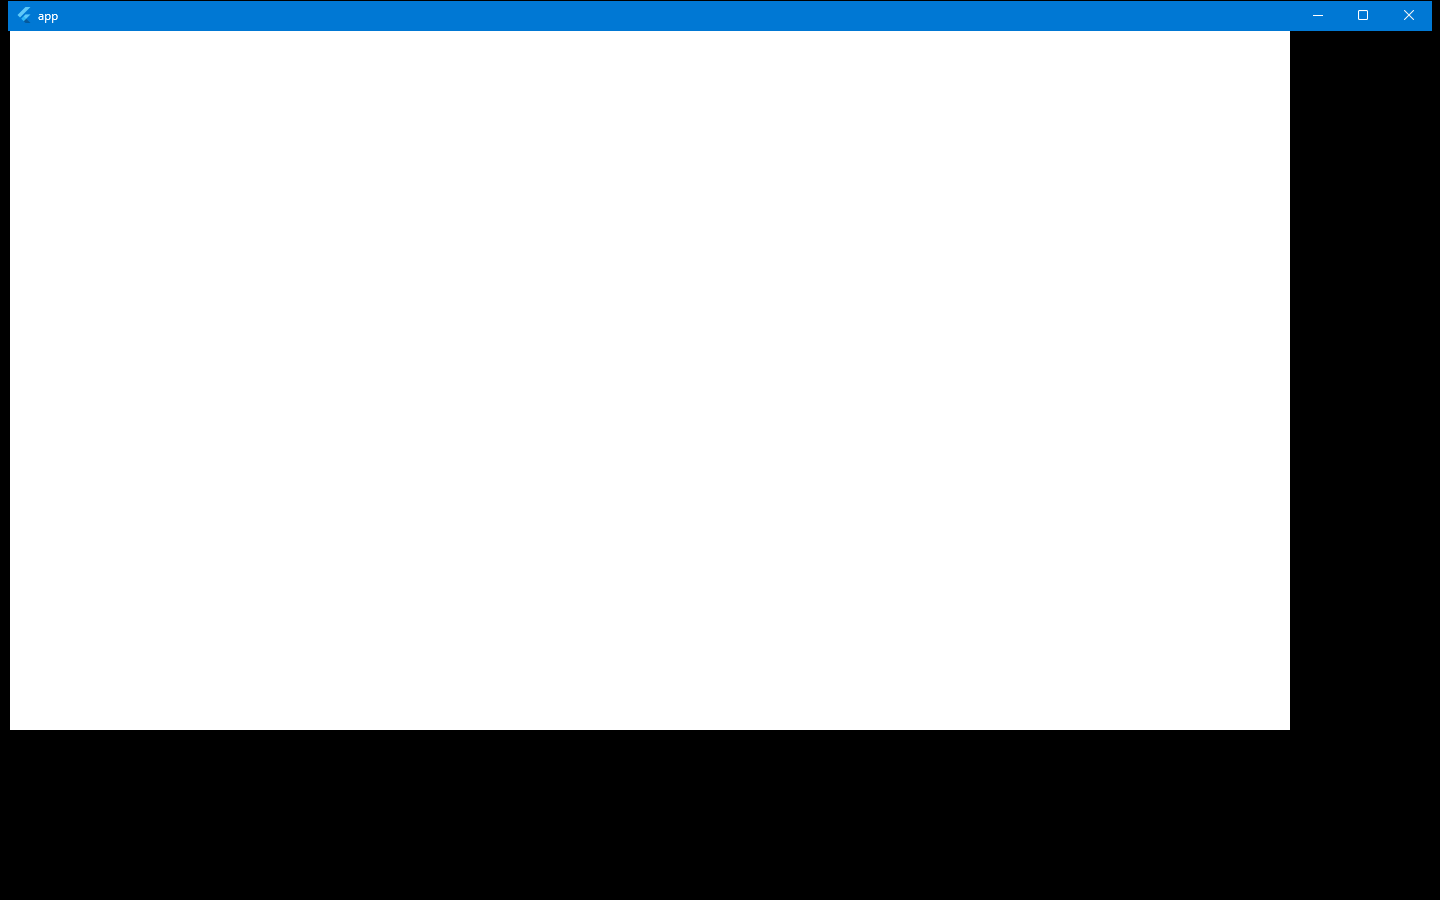
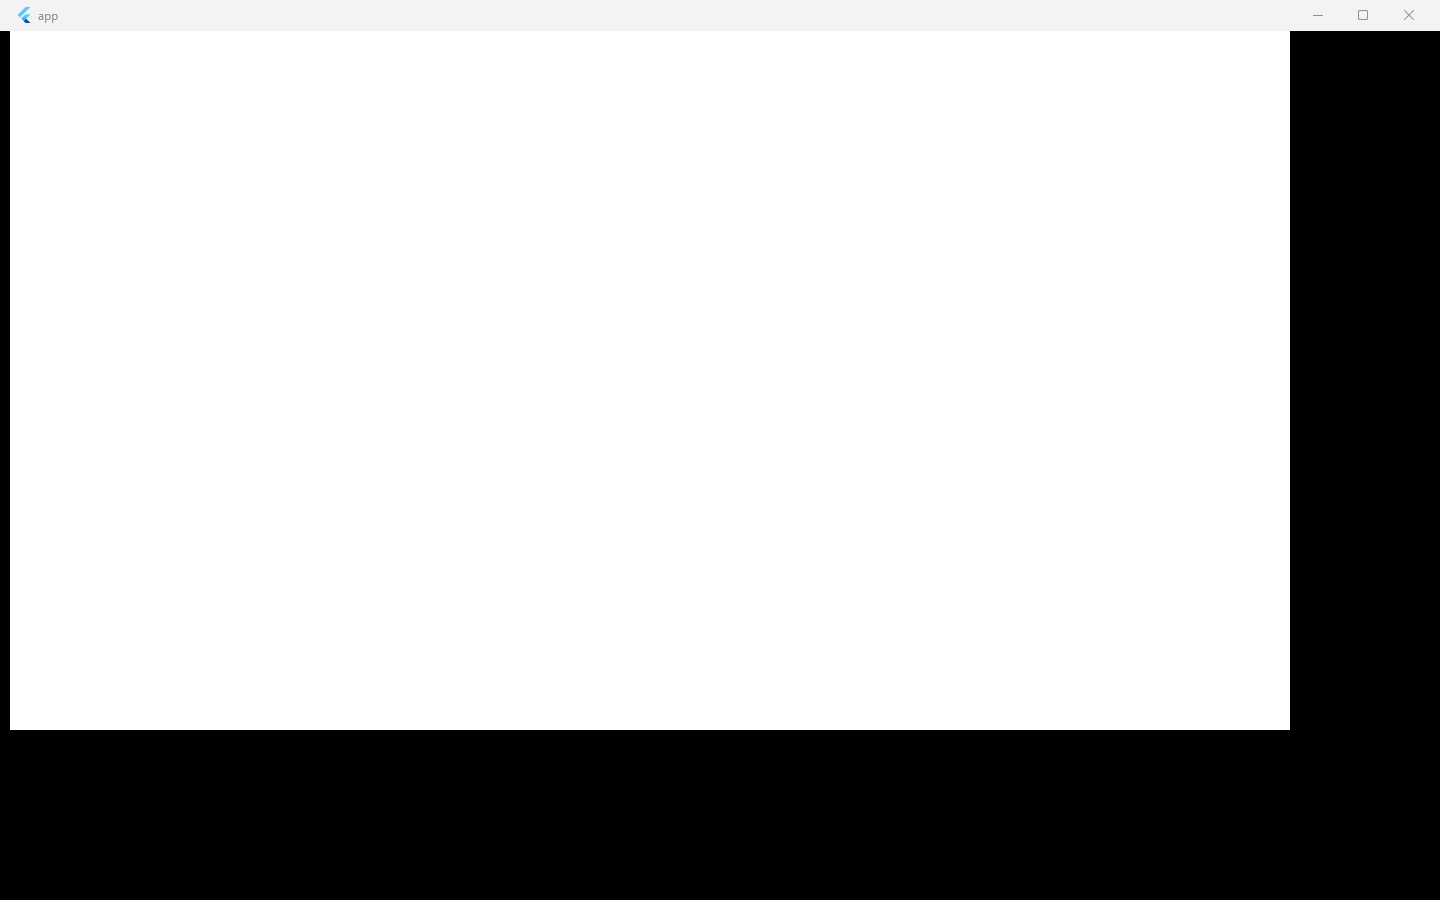
chore(e2e): 更新 Win32 GDI 截图驱动与最新云端产物 E2E 验证证据

Changed region(s): [[0.0, 0.0, 1.0, 0.0622]]

diff --git a/run_pc_physical_e2e.py b/run_pc_physical_e2e.py
@@ -66,14 +66,57 @@ def bring_to_front(hwnd):
     user32.BringWindowToTop(hwnd)
     time.sleep(0.4)
 
+class BITMAPINFOHEADER(ctypes.Structure):
+    _fields_ = [
+        ('biSize', wintypes.DWORD),
+        ('biWidth', wintypes.LONG),
+        ('biHeight', wintypes.LONG),
+        ('biPlanes', wintypes.WORD),
+        ('biBitCount', wintypes.WORD),
+        ('biCompression', wintypes.DWORD),
+        ('biSizeImage', wintypes.DWORD),
+        ('biXPelsPerMeter', wintypes.LONG),
+        ('biYPelsPerMeter', wintypes.LONG),
+        ('biClrUsed', wintypes.DWORD),
+        ('biClrImportant', wintypes.DWORD)
+    ]
+
 def capture_window(hwnd, out_path):
     bring_to_front(hwnd)
-    time.sleep(0.3)
+    time.sleep(0.4)
     l, t, r, b = rect_of(hwnd)
-    # 使用物理屏幕直接抓取以完整捕获 GPU/DirectX/Impeller 渲染表面
-    img = ImageGrab.grab(bbox=(l, t, r, b), all_screens=False)
-    img.save(out_path)
-    return img.size
+    w = max(1, r - l)
+    h = max(1, b - t)
+    
+    hwndDC = user32.GetWindowDC(hwnd)
+    memDC = gdi32.CreateCompatibleDC(hwndDC)
+    hbmp = gdi32.CreateCompatibleBitmap(hwndDC, w, h)
+    gdi32.SelectObject(memDC, hbmp)
+    
+    res = user32.PrintWindow(hwnd, memDC, 2)
+    if not res:
+        res = user32.PrintWindow(hwnd, memDC, 0)
+    
+    bmi = BITMAPINFOHEADER()
+    bmi.biSize = ctypes.sizeof(BITMAPINFOHEADER)
+    bmi.biWidth = w
+    bmi.biHeight = -h
+    bmi.biPlanes = 1
+    bmi.biBitCount = 32
+    bmi.biCompression = 0
+    
+    buf = (ctypes.c_char * (w * h * 4))()
+    gdi32.GetDIBits(memDC, hbmp, 0, h, buf, ctypes.byref(bmi), 0)
+    
+    gdi32.DeleteObject(hbmp)
+    gdi32.DeleteDC(memDC)
+    user32.ReleaseDC(hwnd, hwndDC)
+    
+    from PIL import Image
+    img = Image.frombuffer('RGBA', (w, h), buf, 'raw', 'BGRA', 0, 1)
+    rgb = img.convert('RGB')
+    rgb.save(out_path)
+    return (w, h)
 
 def click_client(hwnd, x, y):
     bring_to_front(hwnd)
